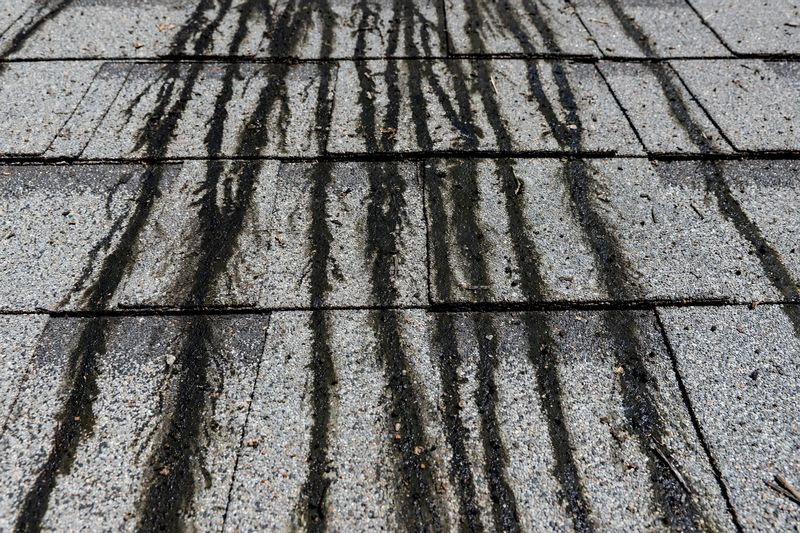
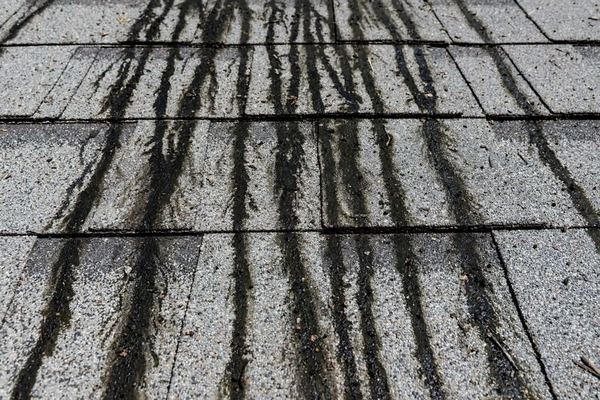
committed and pushe to the githup and repositry

diff --git a/README.md b/README.md
@@ -1,25 +1,23 @@
-# Page Title Fixes — Screaming Frog batch 2 (14 Nov 2026)
+# Image Compression — Screaming Frog batch 3 (14 Nov 2026)
 
-## Kya theek kiya gaya
-12 pages ke titles 60 characters se lambe the — Google unko search
-results mein kaat deta tha ("..."). Har title chhota kar diya gaya hai
-(service + Jacksonville, FL), sab 60 characters se kam hain:
-- Sab se lamba ab Screen Enclosure wala hai: 54 characters.
-- Quote wale title mein brand rakha hai: "Get a Free Quote |
-  Jacksonville Pressure Wash" (45 characters).
-- Screen Enclosure page ki lambi heading (78 characters) bhi chhoti
-  kar di gayi hai (53 characters).
-
-Har file mein sirf title wali line badli hai (Screen Enclosure mein
-heading wali 1 line bhi) — aur kuch nahi.
+## Kya kiya gaya
+20 images compress ki gayi hain — total 7.4MB se 2.6MB (65% kam).
+Sab se bari file ab 229kB hai (pehle 562kB thi). Photos wahi hain,
+sirf size chhota hai — nazar mein koi farq nahi aayega.
 
 ## Upload steps (ek hi push)
 1. Zip ko extract karein.
-2. 12 HTML files ko project folder (site name) mein copy karke REPLACE
-   karein — files ko seedha root mein daalein, kisi subfolder mein nahi.
+2. Extract hone wale `assets` folder ko project folder (site name)
+   mein copy karein — jab poochhe to "Replace the files in the
+   destination" dabayein. (Poora zip wala folder project mein mat
+   daalein — sirf `assets` folder copy karein.)
 3. VS Code mein Source Control se commit + push karein.
 4. Muse ko batayein — wo live check kar ke confirm karegi.
 
+NOTE: Images 7 din tak browser cache mein rehti hain, is liye
+nayi halki photos ka faida aahista aahista nazar aayega — ye normal
+hai, dobara upload karne ki zaroorat nahi.
+
 ## Iske baad kya baqi hai
-- 16 images 100 kB se bari hain — compress karni hain (agle batch).
-- 12 images mein width/height nahi hai — add karna hai (agle batch).
+- 12 images mein width/height nahi hai — HTML mein add karna hai
+  (aakhri Screaming Frog batch).
